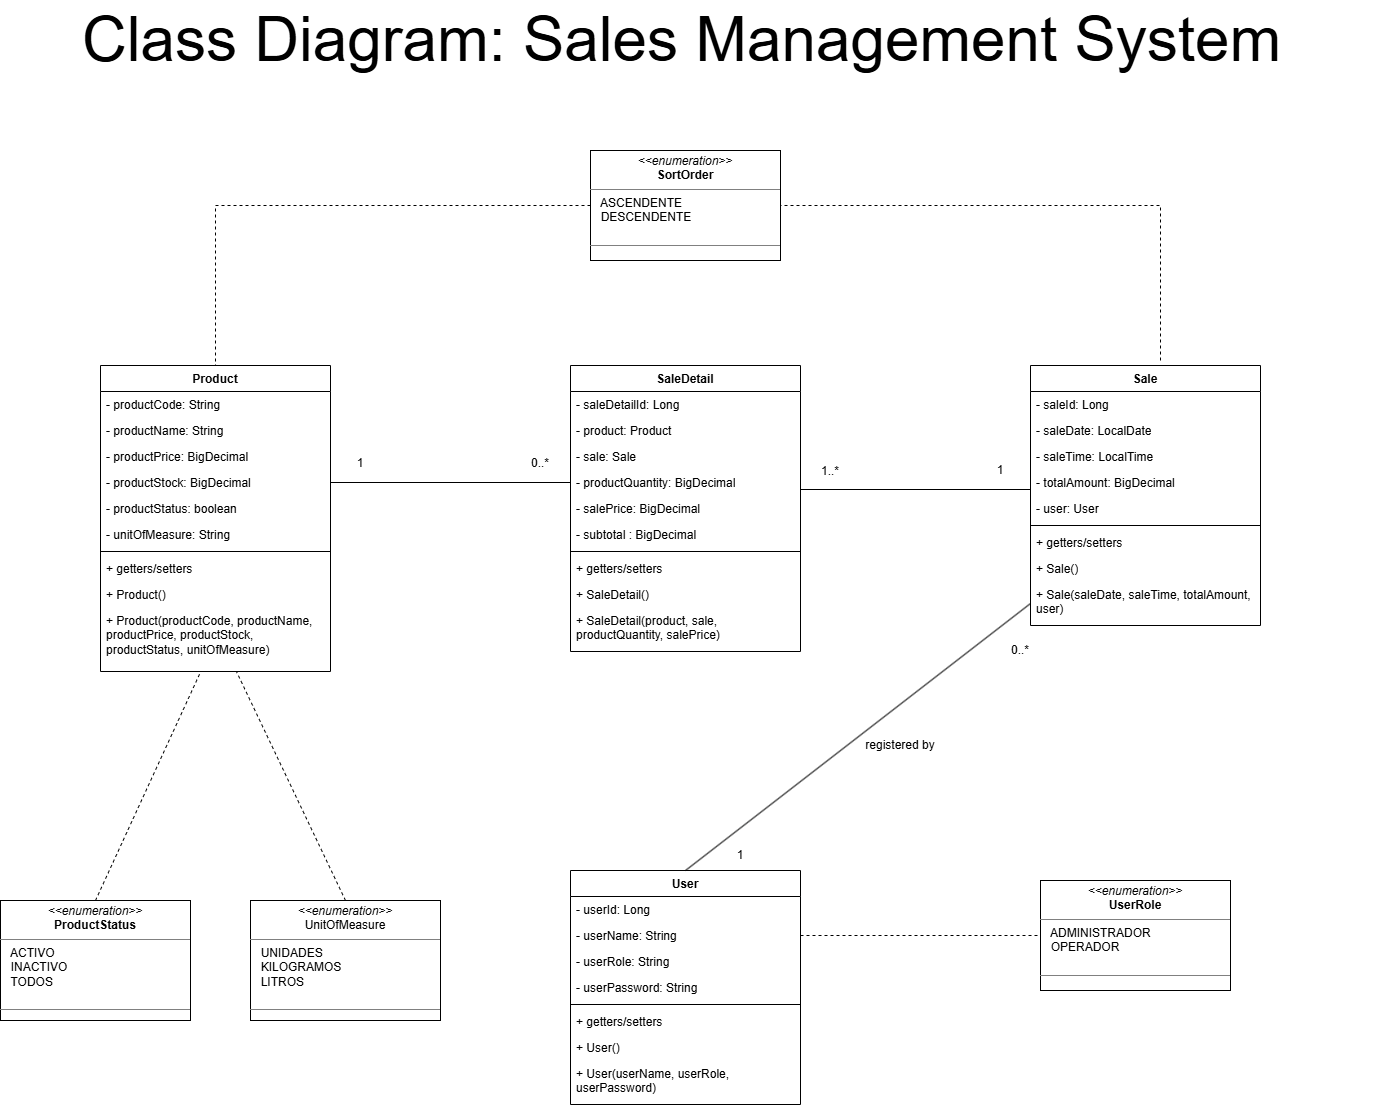
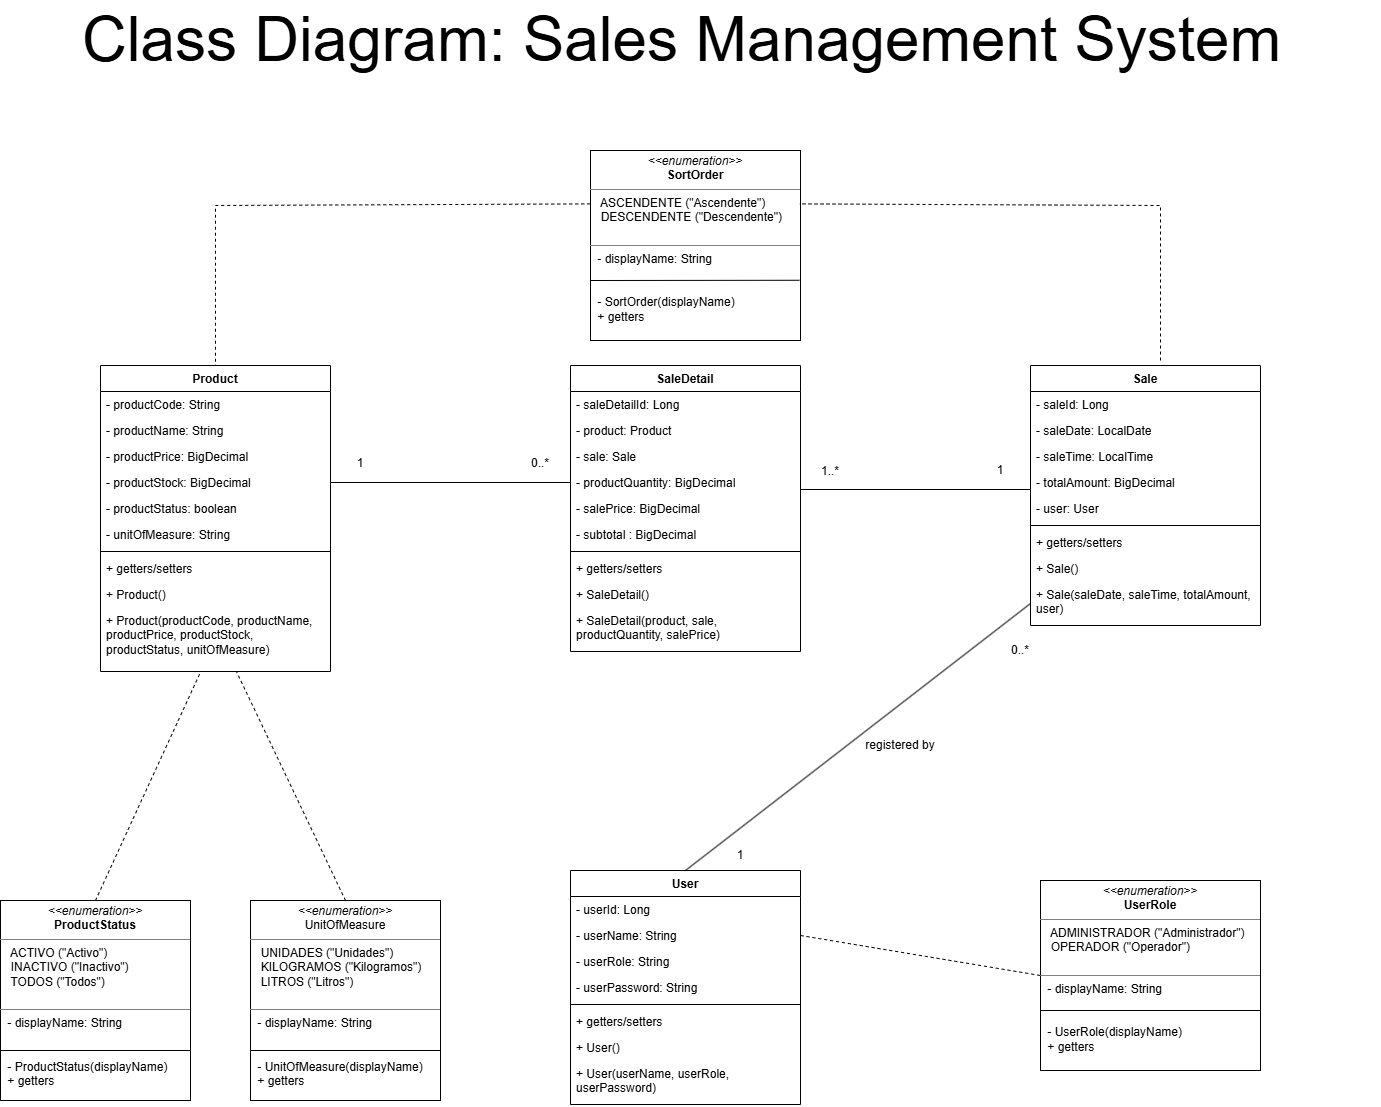
docs: modify class diagram enums to show values, attributes, and methods

diff --git a/docs/functional_requirements.md b/docs/functional_requirements.md
@@ -758,7 +758,7 @@ El sistema debe permitir al usuario consultar estadísticas de ventas en un rang
 ### Reglas de negocio
 - El sistema debe permitir consultar estadísticas de ventas por día, mes o año.  
 - La información mostrada debe incluir el total recaudado y la lista de productos vendidos con sus cantidades.  
-- El sistema debe permitir ordenar los productos vendidos por cantidad segun la popularidad: "Más vendidos → menos vendidos" o "Menos vendidos → más vendidos".  
+- El sistema debe permitir ordenar los productos vendidos por cantidad: "Más vendidos → menos vendidos" o "Menos vendidos → más vendidos".  
 - El sistema debe permitir filtrar los productos vendidos por "Productos vendidos", "Productos no vendidos" o "Todos".
    - "Productos vendidos" muestra únicamente los productos cuya cantidad vendida es mayor que 0.  
    - "Productos no vendidos" muestra únicamente los productos cuya cantidad vendida es igual a 0.  
